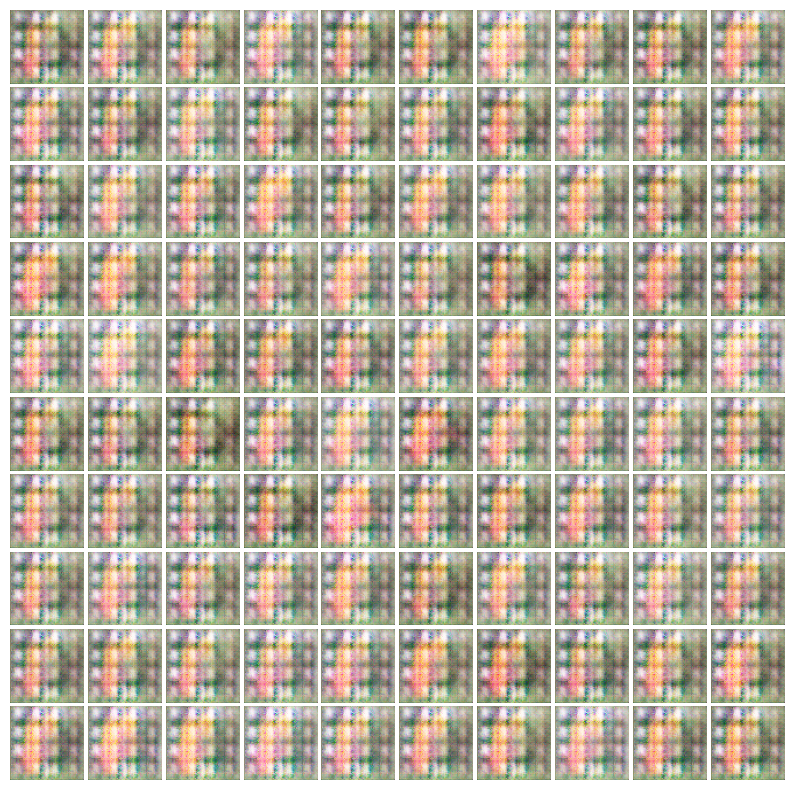
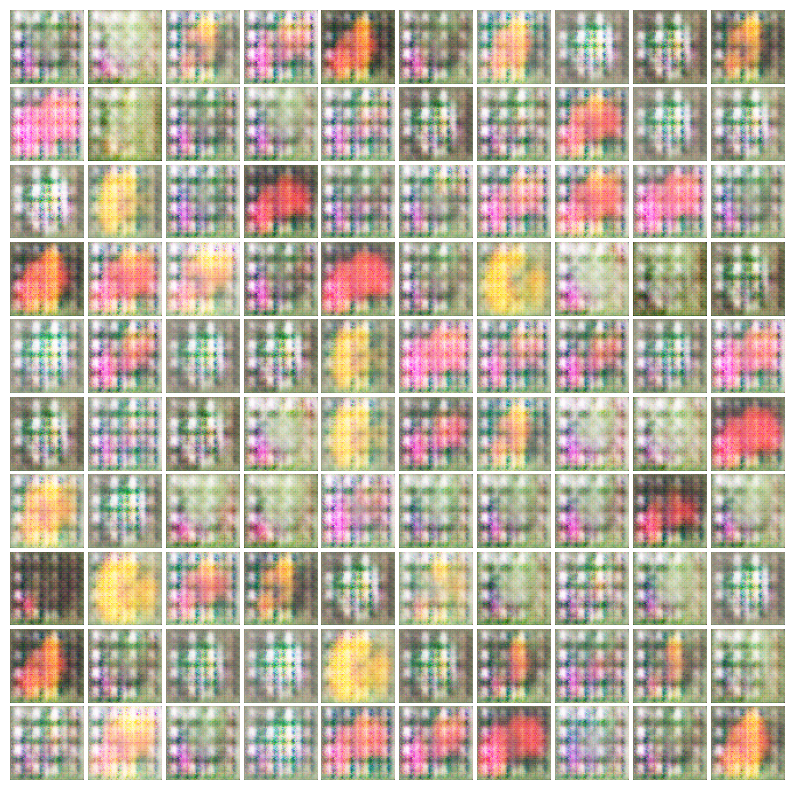
cgan working with BCE loss

diff --git a/models/dcgan.py b/models/dcgan.py
@@ -3,6 +3,7 @@ from torch import nn
 from tqdm import trange
 from models import vanilla_gan, cgan, classwgan
 import os
+from torch.utils.data import DataLoader
 
 class DCGAN(object):
 
@@ -128,14 +129,12 @@ class DCGAN(object):
 
         return disc_loss, genr_loss
 
-    def generate_img(self, z, number_of_images, train_loader, text_embedding = None):
+    def generate_img(self, z, number_of_images, dataset, text_embedding = None):
         if self.G_type == "vanilla_gan":
             samples = self.G(z).data.cpu().numpy()[:number_of_images]
         if self.G_type in ["cgan", "wgan"]:
             if text_embedding is None:
-                batch_data = next(iter(train_loader))
-                text_embedding = batch_data['right_embed'].to(self.device)[0:1]  # Taking one embedding
-                text_embedding = text_embedding.repeat(z.size(0), 1)  # Repeat to match batch size
+                text_embedding = self.get_random_embeddings(number_of_images, dataset)
             samples = self.G(z, text_embedding).data.cpu().numpy()[:number_of_images]
 
         generated_images = []
@@ -143,7 +142,7 @@ class DCGAN(object):
             generated_images.append(sample.reshape(3, 64, 64).transpose(1, 2, 0))
         return generated_images
 
-    def get_random_embedding(self, train_loader):
-        random_batch = next(iter(train_loader))
-        random_idx = torch.randint(0, random_batch['right_embed'].size(0), (1,))
-        return random_batch['right_embed'][random_idx].to(self.device)
+    def get_random_embeddings(self, number_of_images, dataset):
+        random_batch = next(iter(DataLoader(dataset, batch_size=number_of_images, shuffle=True)))
+        random_indices = torch.randint(0, random_batch['right_embed'].size(0), (number_of_images,))
+        return random_batch['right_embed'][random_indices].to(self.device)

diff --git a/trainer_GAN.py b/trainer_GAN.py
@@ -56,7 +56,7 @@ disc_loss, genr_loss = model.train(train_loader)
 
 # Plot the generated images
 z = torch.randn(100, 100, 1, 1).to(device)
-generated_images = model.generate_img(z, 100, train_loader=train_loader)
+generated_images = model.generate_img(z, 100, dataset)
 fig = plt.figure(figsize=(10, 10))
 gs = gridspec.GridSpec(10, 10)
 gs.update(wspace=0.05, hspace=0.05)
